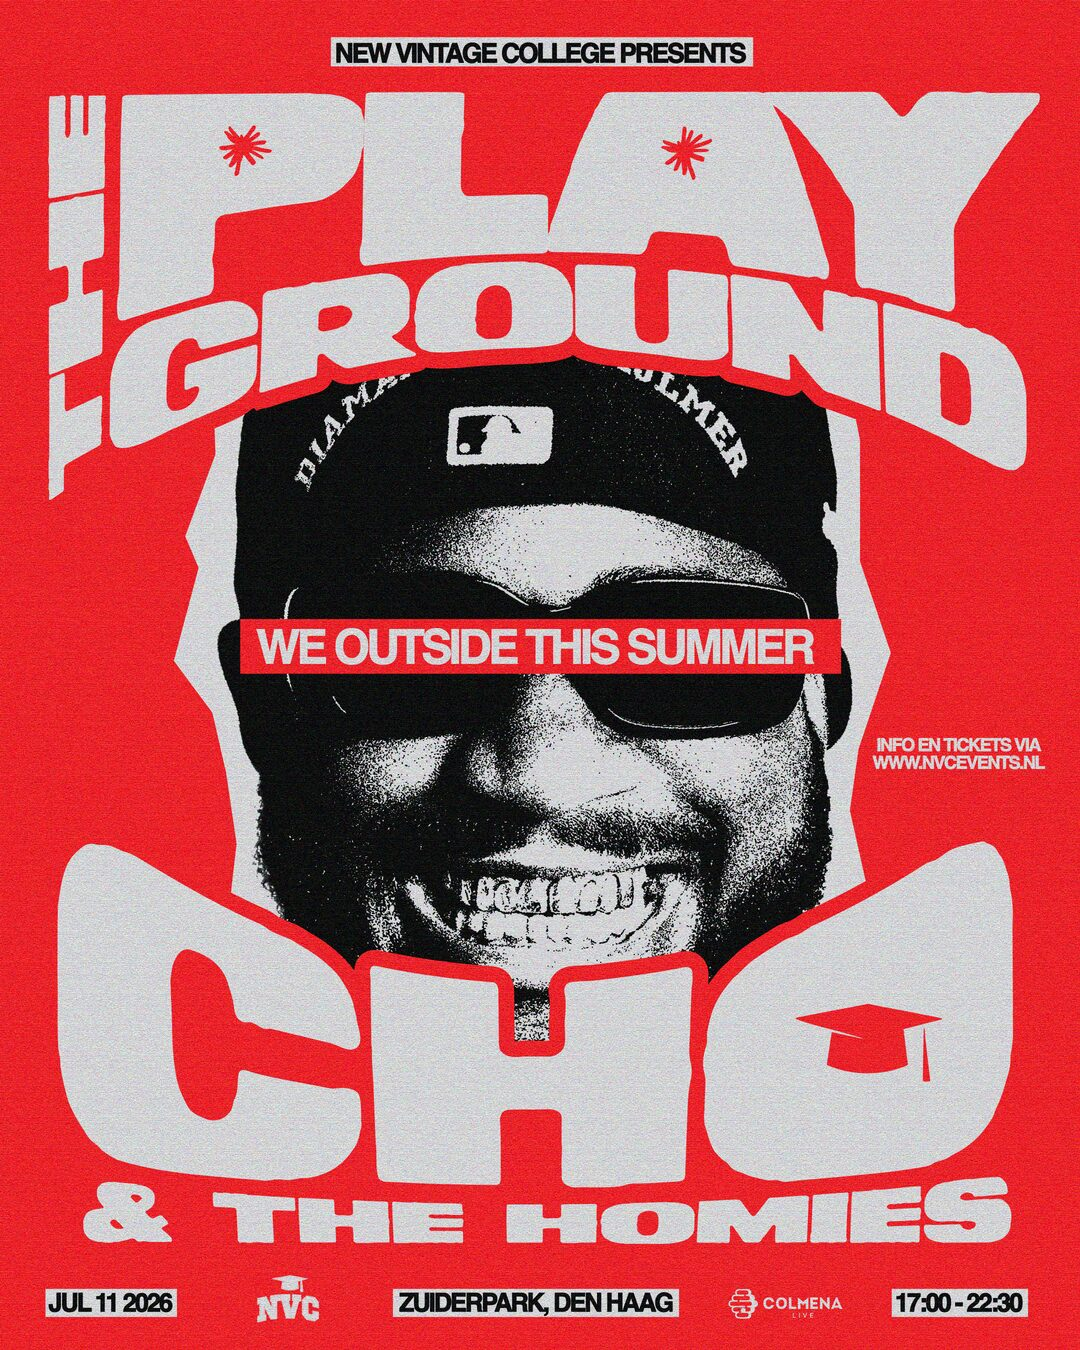
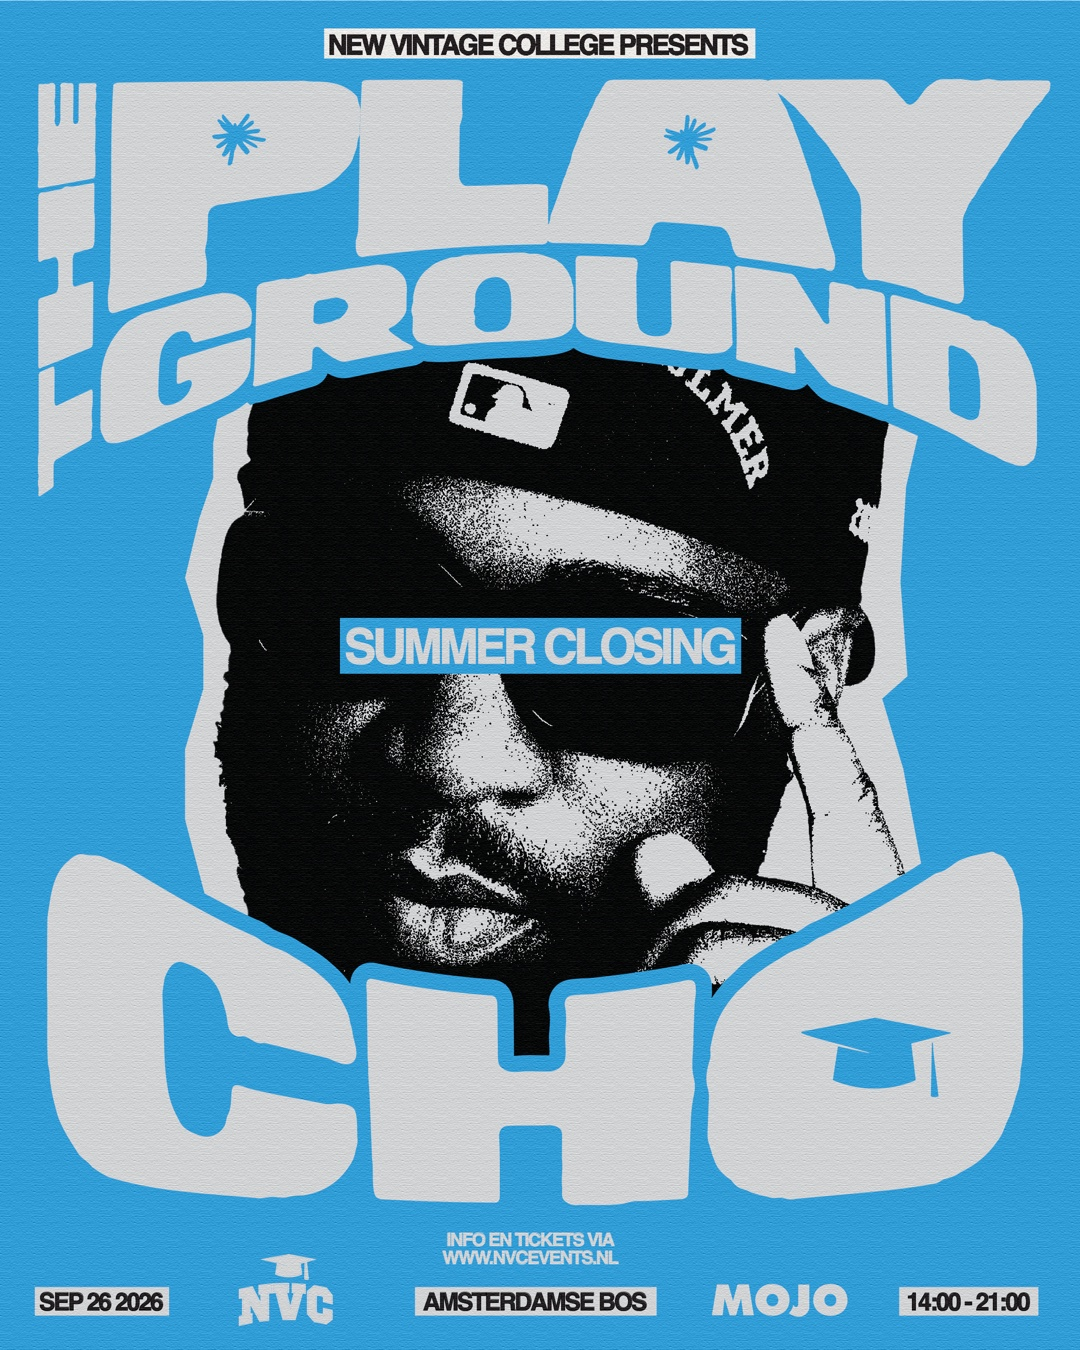
Commit missing PLAYGROUND content changes (App, siteConfig, Hero, About, flyer)
These edits were left uncommitted earlier (a failed git add pathspec aborted
the whole stage), so the repo built App.jsx importing the deleted FAQ section
and still served old event content. This fixes the Netlify build failure.

diff --git a/src/data/siteConfig.js b/src/data/siteConfig.js
@@ -1,173 +1,30 @@
-export const TICKET_URL = "https://shop.tickets.cm.com/8bcb2589-7e9f-5685-42f7-5d6a7388db41";
+export const TICKET_URL =
+  "https://www.eventim.nl/noapp/eventseries/3994007?affiliate=3LA";
 
 export const EVENT = {
-  name: "CHO & The Homies",
-  tagline: "WE OUTSIDE THIS SUMMER",
+  name: "CHO presents THE PLAYGROUND",
+  tagline: "SUMMER CLOSING",
   presenter: "NEW VINTAGE COLLEGE PRESENTS",
   brand: "NVC Events",
-  date: "2026-07-11T17:00:00",
-  dateDisplay: "11 juli 2026",
+  date: "2026-09-26T14:00:00",
+  dateDisplay: "26 september 2026",
   dayOfWeek: "Zaterdag",
-  location: "Zuiderpark, Den Haag",
-  doors: "17:00 – 22:30",
+  location: "Amsterdamse Bos",
+  shows: [
+    { label: "Middagshow", time: "14:00 - 17:00" },
+    { label: "Avondshow", time: "19:00 - 22:00" },
+  ],
   description:
-    "Op zaterdag 11 juli neemt CHO & The Homies het Zuiderpark over voor een zomerse liveshow vol energie, hard beats en collectieve chaos.",
+    "Op zaterdag 26 september staat CHO live in het Amsterdamse Bos met zijn allereerste open air shows. Met twee shows op één dag maakt CHO van het Bostheater zijn eigen playground waarin we samen de zomer afsluiten.",
 };
 
 export const TICKETS = [
   {
-    id: "early-bird",
-    title: "Early Bird",
-    price: "€ 29,50",
-    description: "Beperkt beschikbaar",
-    features: ["Toegang tot het volledige event", "Eerste binnenkomst"],
-    soldOut: false,
-  },
-  {
     id: "regular",
     title: "Regular",
-    price: "€ 39,50",
+    price: "€ 43,70",
     description: "Standaard ticket",
-    features: ["Toegang tot het volledige event", "Inclusief garderobe"],
+    features: ["Toegang tot het volledige event"],
     soldOut: false,
-  },
-  {
-    id: "final-phase",
-    title: "Final Phase",
-    price: "€ 49,50",
-    description: "Laatste kans",
-    features: ["Toegang tot het volledige event", "Laatste tickets beschikbaar"],
-    soldOut: false,
-  },
-  {
-    id: "squad",
-    title: "Squad",
-    price: "€ 180,00",
-    description: "Ticket voor 4 personen",
-    features: [
-      "4x toegang tot het volledige event",
-      "€ 40,50 p.p. + € 4,50 servicekosten",
-    ],
-    soldOut: false,
-  },
-];
-
-export const LINEUP = [
-  { name: "CHO", role: "Headliner" },
-  { name: "& The Homies", role: "Special Guests" },
-  { name: "TBA", role: "Support Act" },
-  { name: "TBA", role: "DJ Set" },
-];
-
-export const FAQ_ITEMS = [
-  {
-    question: "Huisregels",
-    answer:
-      "Om het voor iedereen veilig en gezellig te houden, gelden tijdens het evenement de volgende huisregels. Bij binnenkomst kan er gecontroleerd worden op legitimatie, tickets en (hand)bagage.\n\nLegitimatie: Neem altijd een geldig identiteitsbewijs mee (ID-kaart, paspoort of rijbewijs).\nAlcohol & leeftijd: Bij twijfel over leeftijd kan om legitimatie gevraagd worden.\nDrugsbeleid: Het bezit, gebruik en verhandelen van drugs is niet toegestaan. Bij constatering kan toegang geweigerd worden en/of word je verwijderd van het terrein.\nAgressie/overlast: Agressie, discriminatie, intimidatie en ongewenst gedrag wordt niet getolereerd.\nVeiligheid: Volg altijd de aanwijzingen van de organisatie, security en personeel op.\nVerboden items: Wapens, glaswerk, vuurwerk en andere gevaarlijke voorwerpen zijn niet toegestaan.\n\nBij het niet naleven van de huisregels kan de organisatie toegang weigeren of je van het terrein verwijderen, zonder restitutie van ticketkosten.",
-  },
-  {
-    question: "Datum & Tijd",
-    answer:
-      "CHO & The Homies vindt plaats op zaterdag 11 juli 2026 in het Zuiderpark in Den Haag.\nDoors: 17:00 – 22:30 uur\n\nDit evenement betreft een volledig concert van CHO en divers voorprogramma.",
-  },
-  {
-    question: "Locatie",
-    answer:
-      "Het evenement vindt plaats in het Zuiderpark in Den Haag. De exacte ingangen en bereikbaarheid worden kort voor het evenement gedeeld via onze website en socials.",
-  },
-  {
-    question: "Minimumleeftijd",
-    answer:
-      "Het concert is toegankelijk voor alle leeftijden. We adviseren een minimumleeftijd van 16+. Ben je jonger dan 16? Dan adviseren we je om te komen met een volwassen begeleider. Iedere bezoeker heeft een geldig ticket nodig.",
-  },
-  {
-    question: "Betalen op het terrein",
-    answer:
-      "Betalen doe je met munten, die je kunt aanschaffen bij de muntenkassa's op het terrein.\n\n• Munten zijn te betalen met pin of contant\n• Niet-gebruikte munten kunnen na afloop niet worden teruggewisseld, dus koop met mate\n• Er zijn meerdere kassa's aanwezig om lange rijen te voorkomen",
-  },
-  {
-    question: "Eten & Drinken",
-    answer:
-      "Het is niet toegestaan om eigen eten of drinken mee te nemen. Geen zorgen – we zorgen voor een ruim aanbod aan foodtrucks en barren, met voldoende keuze voor iedereen (ook vega en vegan).",
-  },
-  {
-    question: "Tickets",
-    answer:
-      "Tickets zijn verkrijgbaar via:\n\nwww.nvcevents.nl\nTicketprijs: nog te bevestigen (ex servicekosten)",
-  },
-  {
-    question: "Tickets kwijt?",
-    answer:
-      "Kun je je ticket(s) niet meer vinden in je mailbox?\n\n• Check je spam of ongewenste e-mail\n• Nog steeds niks? Neem contact op met de ticketprovider",
-  },
-  {
-    question: "Officiële ticketverkoop",
-    answer:
-      "Koop je tickets alleen via onze officiële verkoopkanalen (website, Instagram, Facebook).\nLet op: tickets via onofficiële doorverkoopwebsites of Marktplaats zijn op eigen risico. Wij kunnen de geldigheid daarvan niet garanderen.",
-  },
-  {
-    question: "Moet ik mijn ticket uitprinten?",
-    answer:
-      "Dat hoeft niet! Je ticket mag ook gewoon op je telefoon. Zorg er wel voor dat:\n\n• je scherm niet gebarsten is\n• de helderheid van je scherm hoog staat bij de ingang\n\nHeb je een kapot scherm? Dan is een geprint ticket aan te raden.",
-  },
-  {
-    question: "Lockers",
-    answer:
-      "Er zijn voldoende lockers op het terrein aanwezig. Na betaling van de huur en borg kun je je locker de hele dag gebruiken. Ideaal om je jas, tas of waardevolle spullen veilig op te bergen.",
-  },
-  {
-    question: "Sigaretten & Vapes",
-    answer:
-      "Er worden geen sigaretten of vapes verkocht op het terrein. Neem dus van tevoren mee wat je nodig denkt te hebben.\nLet op: het is niet toegestaan om tussentijds het terrein te verlaten en terug te keren.",
-  },
-  {
-    question: "Gehoorbescherming",
-    answer:
-      "Je gehoor is belangrijk. Op het terrein is een speciale tent waar oordoppen verkocht worden. We raden aan om ook zelf gehoorbescherming mee te nemen.",
-  },
-  {
-    question: "Fotoapparatuur",
-    answer:
-      "Deze onvergetelijke dag wil je natuurlijk vastleggen met je camera. Dat mag tijdens CHO & The Homies, zolang de foto's en video's voor privédoeleinden zijn en je geen professionele apparatuur gebruikt. Selfie-sticks zijn niet toegestaan.\n\nWil je foto's maken of beelden opnemen voor commerciële doeleinden, stuur dan vooraf een mail naar info@colmenalive.com voor een eventuele persaccreditatie.",
-  },
-  {
-    question: "Waardevolle spullen",
-    answer:
-      "Laat kostbare spullen liever thuis. Neem alleen mee wat je echt nodig hebt en gebruik een kluisje als je iets wilt opbergen. Better safe than sorry!",
-  },
-  {
-    question: "Medicatie",
-    answer:
-      "Gebruik je medicatie? Neem dan een doktersverklaring en de bijsluiter mee, zodat je deze zonder problemen mee naar binnen mag nemen.",
-  },
-  {
-    question: "Zonnebrand",
-    answer:
-      "Veilig de zon in? Zeker! Je mag een flesje zonnebrand meenemen. Daarnaast is bij de toiletten gratis zonnebrand verkrijgbaar.",
-  },
-  {
-    question: "Is het evenement overdekt?",
-    answer:
-      "Nee, het evenement is in de openlucht. Check het weer van tevoren en kleed je passend.",
-  },
-  {
-    question: "Bereikbaarheid en parkeren",
-    answer:
-      "Kom als het kan met de fiets, het OV, een deelscooter of lekker lopend.\nParkeren rondom het park is niet mogelijk – we raden autorijden daarom sterk af.\n\nMocht je toch met de auto komen dan adviseren wij om te parkeren in een van de Q-Park parkeergarages in de buurt. De garages aan de Leyweg en Hengelolaan zijn goede opties en liggen op loopafstand van het Zuiderpark.",
-  },
-  {
-    question: "Toegankelijkheid voor mindervaliden",
-    answer:
-      "Het terrein is toegankelijk voor mindervaliden. Zij kunnen gebruikmaken van het mindervaliden deck. We vragen je om dit van tevoren even per mail te melden, zodat we op de hoogte zijn en je zo goed mogelijk kunnen helpen.",
-  },
-  {
-    question: "Gevonden voorwerpen",
-    answer:
-      "Ben je iets kwijtgeraakt? Gevonden voorwerpen worden na afloop verzameld. Stuur een mail naar info@colmenalive.com met een korte omschrijving van het item (en eventueel waar/wanneer je het bent verloren), dan kijken we of het is gevonden.",
-  },
-  {
-    question: "Staat je vraag hier niet tussen?",
-    answer:
-      "Geen zorgen! Mail ons op info@colmenalive.com, dan helpen we je graag verder.",
   },
 ];

diff --git a/src/sections/Hero.jsx b/src/sections/Hero.jsx
@@ -25,7 +25,10 @@ export default function Hero() {
           {[
             { label: EVENT.dateDisplay, value: "Datum" },
             { label: EVENT.location, value: "Locatie" },
-            { label: EVENT.doors, value: "Doors" },
+            ...EVENT.shows.map((show) => ({
+              label: show.time,
+              value: show.label,
+            })),
           ].map((item) => (
             <div
               key={item.value}
@@ -45,26 +48,14 @@ export default function Hero() {
               Tickets
             </span>
           </div>
-          {[
-            { price: "€ 54,-", tier: "Regular" },
-            { price: "€ 84,-", tier: "Golden Circle" },
-            { price: "€ 180,-", tier: "Squad (4 pers.)" },
-          ].map((item) => (
-            <div
-              key={item.tier}
-              className="border-b border-gray-800 pb-3 flex items-center justify-between"
-            >
-              <span className="text-base sm:text-lg font-black text-white uppercase">
-                {item.price}
-                <span className="ml-2 text-[10px] sm:text-xs font-normal text-gray-500 normal-case tracking-normal">
-                  ex servicekosten
-                </span>
-              </span>
-              <span className="text-[10px] sm:text-xs uppercase tracking-widest text-red-500 font-bold">
-                {item.tier}
-              </span>
-            </div>
-          ))}
+          <div className="border-b border-gray-800 pb-3 flex items-center justify-between">
+            <span className="text-base sm:text-lg font-black text-white uppercase">
+              € 43,70
+            </span>
+            <span className="text-[10px] sm:text-xs uppercase tracking-widest text-red-500 font-bold">
+              Regular
+            </span>
+          </div>
         </div>
 
 <div className="hidden md:block">

diff --git a/src/sections/About.jsx b/src/sections/About.jsx
@@ -1,3 +1,5 @@
+import CTAButton from "../components/CTAButton";
+
 export default function About() {
   return (
     <section className="py-20 sm:py-28 px-4">
@@ -6,14 +8,17 @@ export default function About() {
           New Vintage College Presents: The Playground
         </h2>
         <p className="text-gray-300 text-base sm:text-lg leading-relaxed mb-6">
-          Op zaterdag 11 juli neemt CHO het Zuiderpark in Den Haag over voor zijn allereerste open air show.
-          Van 17:00 tot 22:30 verandert het park in een playground waar muziek, good vibes en community samenkomen.
+          Op zaterdag 26 september staat CHO live in het Amsterdamse Bos met zijn
+          allereerste open air shows. Met twee shows op één dag maakt CHO van het
+          Bostheater zijn eigen playground waarin we samen de zomer afsluiten.
         </p>
-        <p className="text-gray-400 text-base leading-relaxed">
-          Met THE PLAYGROUND presenteert CHO naast een spectaculaire live show van 2 uur met special guests,
-          ook een werkelijke full day experience met een line-up aan support acts en DJ's en een terrein waar
-          de hele dag door van alles te ontdekken is: van food tot fashion tot entertainment.
+        <p className="text-gray-400 text-base leading-relaxed mb-10">
+          Haal nu je tickets voor de middagshow om 14:00 of de avondshow om 19:00
+          via de onderstaande button.
         </p>
+        <CTAButton className="text-base sm:text-lg px-10 py-5">
+          Tickets
+        </CTAButton>
       </div>
     </section>
   );

diff --git a/src/App.jsx b/src/App.jsx
@@ -1,6 +1,5 @@
 import Hero from "./sections/Hero";
 import About from "./sections/About";
-import FAQ from "./sections/FAQ";
 import FinalCTA from "./sections/FinalCTA";
 import StickyMobileCTA from "./components/StickyMobileCTA";
 import BackgroundTexture from "./components/BackgroundTexture";
@@ -14,7 +13,6 @@ export default function App() {
       <div className="relative z-10">
       <Hero />
       <About />
-      <FAQ />
       <FinalCTA />
 
       <footer className="py-6 text-center border-t border-gray-900">
